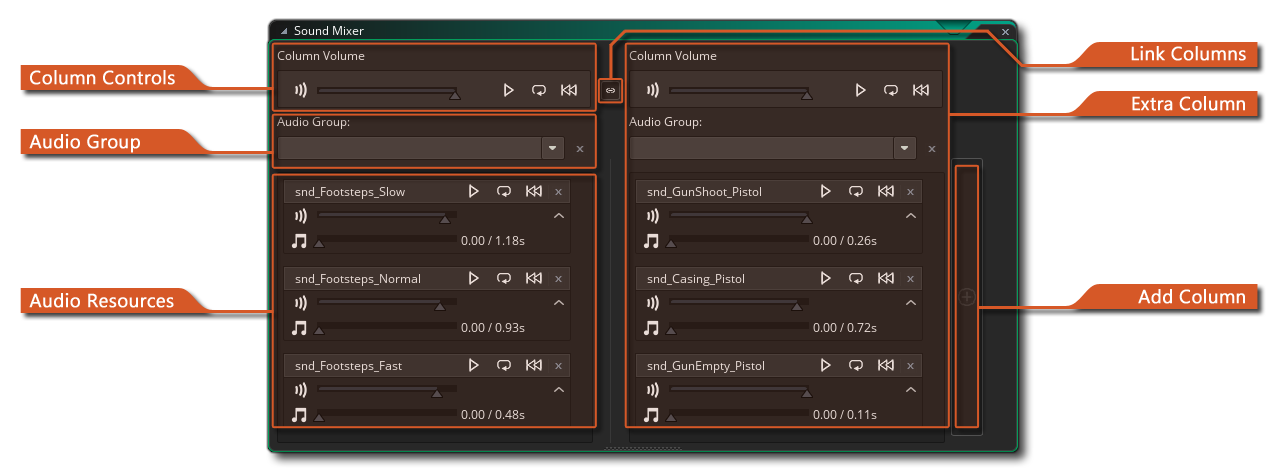
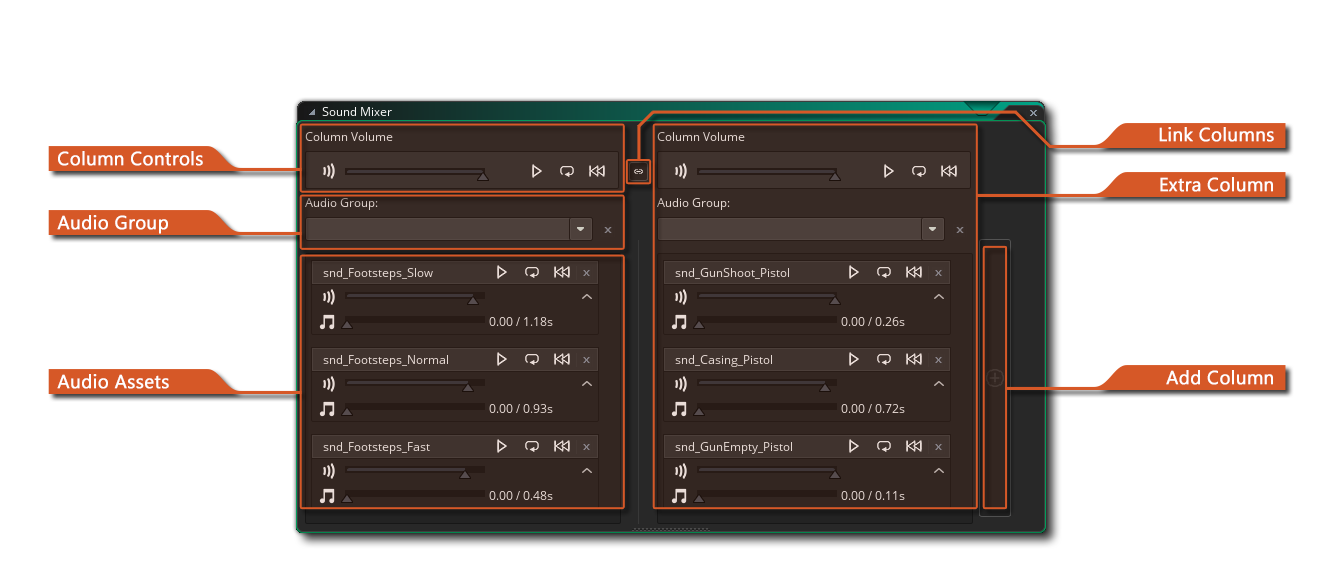
docs(general): Sound Mixer: Setting a column volume does not work as expected YoYoGames/GameMaker-Bugs#1481
* Added that the column volume slider sets overall column volume
* Added a sentence on volume sliders updating in real time
* Updated screenshot, replacing "Audio Resources" -> "Audio Assets"

diff --git a/Manual/contents/IDE_Tools/Sound_Mixer.htm b/Manual/contents/IDE_Tools/Sound_Mixer.htm
@@ -4,7 +4,7 @@
 <head>
   <meta http-equiv="Content-Type" content="text/html; charset=utf-8" />
   <title>Sound Mixer</title>
-  <meta name="generator" content="Adobe RoboHelp 2020" />
+  <meta name="generator" content="Adobe RoboHelp 2022" />
   <link rel="stylesheet" href="../assets/css/default.css" type="text/css" />
   <script src="../assets/scripts/main_script.js" type="module"></script>
   <meta name="rh-authors" content="Mark Alexander" />
@@ -15,27 +15,26 @@
 <body>
   <!--<div class="body-scroll" style="top: 150px;">-->
   <h1><span data-field="title" data-format="default">Sound Mixer</span></h1>
-  <p><img alt="The Sound Mixer" class="center" src="../assets/Images/IDE Tools/Audio_Mixer.png" />While creating any project it can be useful to check and set volumes of groups of sounds together, so that you can be sure that in-game they all sound correct. This can be tricky when you have to open each individual sound editor within the workspace, and so <span data-keyref="GameMaker Name">GameMaker</span> permits you to open a<strong> Sound Mixer</strong> window where you can play multiple sounds all from the same place and tweak their volume levels accordingly. This window can be opened from the <a href="../The_Asset_Editors/Sounds.htm">Sound Editor</a> (which will add that selected sound to the mixer view) or from the <a href="../IDE_Navigation/Menus/The_Tools_Menu.htm">Tools Menu</a>.</p>
-  <p>To add sounds to the mixer, you can use <img alt="Control Icon" class="icon" height="20" src="../assets/Images/Icons/Icon_Ctrl.png" width="55" /> / <img alt="CMD Icon" class="icon" height="20" src="../assets/Images/Icons/Icon_Cmd.png" width="55" /> +<img alt="LMB Icon" class="icon" height="22" src="../assets/Images/Icons/Icon_LMB.png" width="20" /> to select sounds in the <a href="../Introduction/The_Asset_Browser.htm">Asset Browser</a> and then open the right click <img alt="RMB Icon" class="icon" height="24" src="../assets/Images/Icons/Icon_RMB.png" width="21" /> menu and select <strong>Open In Sound Mixer</strong>. Alternatively, you can click <img alt="LMB Icon" class="icon" height="22" src="../assets/Images/Icons/Icon_LMB.png" width="20" /> on a sound asset and drag it into the mixer.</p>
+  <p><img alt="The Sound Mixer" class="center" src="../assets/Images/IDE Tools/Audio_Mixer.png" />While creating any project it can be useful to check and set volumes of groups of sounds together, so that you can be sure that in-game they all sound correct. This can be tricky when you have to open each individual sound editor within the workspace, and so <span data-keyref="GameMaker Name">GameMaker</span> permits you to open a<b> <span data-field="title" data-format="default">Sound Mixer</span> </b>window where you can play multiple sounds all from the same place and tweak their volume levels accordingly. This window can be opened from <a data-xref="{title}" href="../The_Asset_Editors/Sounds.htm">The Sound Editor</a> (which will add that selected sound to the mixer view) or from <a data-xref="{title}" href="../IDE_Navigation/Menus/The_Tools_Menu.htm">The Tools Menu</a>.</p>
+  <p>To add sounds to the mixer, you can use <img alt="Control Icon" class="icon" height="20" src="../assets/Images/Icons/Icon_Ctrl.png" width="55" /> / <img alt="CMD Icon" class="icon" height="20" src="../assets/Images/Icons/Icon_Cmd.png" width="55" /> +<img alt="LMB Icon" class="icon" height="22" src="../assets/Images/Icons/Icon_LMB.png" width="20" /> to select sounds in <a data-xref="{title}" href="../Introduction/The_Asset_Browser.htm">The Asset Browser</a> and then open the right-click <img alt="RMB Icon" class="icon" height="24" src="../assets/Images/Icons/Icon_RMB.png" width="21" /> menu and select <strong>Open In Sound Mixer</strong>. Alternatively, you can click <img alt="LMB Icon" class="icon" height="22" src="../assets/Images/Icons/Icon_LMB.png" width="20" /> on a sound asset and drag it into the mixer.</p>
   <p>The mixer itself is split into the following sections:</p>
   <ul class="Disc">
     <li><strong>Column Controls</strong>: This section contains the controls for the column of sounds. You can choose to play back all sounds in the column, as well as set them to loop or rewind to the start. You can also set the volume that they should be played back at, and changing this value will change it for all sounds in the group in real time.</li>
-    <li><strong>Audio Group</strong>: If you have assigned sound resources to different <a href="../Settings/Audio_Groups.htm">Audio Groups</a> then you can select the group from this drop-down menu and all the sounds will be added to the current sound mixer column.</li>
-    <li><strong>Sound Assets</strong>: This part of the column view shows each of the sounds that have been added to the mixer. You can set the overall volume for all sounds for the column at the top of the mixer, then use the individual sound volume controllers to change it as required, and you can also playback and loop individual sounds. To remove a sound from the column view, simply click the close button <img alt="Mixer Close SOund Icon" src="../assets/Images/Icons/Mixer_CloseColumn.png" /> for the sound, and you can also expand/collapse the individual sound playback and volume controls to make the view more compact.</li>
+    <li><strong>Audio Group</strong>: If you have assigned sound assets to different <a data-xref="{title}" href="../Settings/Audio_Groups.htm">Audio Groups</a> then you can select the group from this drop-down menu and all the sounds will be added to the current sound mixer column.</li>
+    <li><strong>Sound Assets</strong>: This part of the column view shows each of the sounds that have been added to the mixer. You can set the overall volume for the column at the top of the mixer, then use the individual sound volume controllers to change it as required, and you can also play back and loop individual sounds. Note that moving volume sliders updates the volume at which sounds are heard in real time. To remove a sound from the column view, simply click the close button <img alt="Mixer Close SOund Icon" src="../assets/Images/Icons/Mixer_CloseColumn.png" /> for the sound, and you can also expand/collapse the individual sound playback and volume controls to make the view more compact.</li>
     <li><strong>Link Columns</strong>: The Link Columns button <img alt="Mixer Link Columns Icon" src="../assets/Images/Icons/Mixer_LinkColumns.png" /> will link adjacent columns meaning that their volume and playback controls will now be linked. So, any sounds that are in either of the linked columns will have their volume affected by changes to either column control.</li>
     <li><strong>Extra Column / Add Column</strong>: You can add as many extra columns to the sound mixer as required by clicking the large button to the right of the mixer. Each extra column will be added to he right-most column and can then be linked the previous one, and you can add sounds or audio groups as you would normally. If you need to remove a column from the mixer, then you can find the <strong>Remove Sound Group</strong> button <img alt="Mixer Close SOund Icon" src="../assets/Images/Icons/Mixer_CloseColumn.png" /> found beside the Audio Group drop down menu.</li>
   </ul>
   <p> </p>
   <p> </p>
-  <p> </p>
   <div class="footer">
     <div class="buttons">
       <div class="clear">
-        <div style="float:left">Back: <a href="Additional_IDE_Tools.htm">Additional IDE Tools</a></div>
+        <div style="float:left">Back: <a data-xref="{title}" href="Additional_IDE_Tools.htm">Additional IDE Tools</a></div>
         <div style="float:right">Next: <a data-xref="{title}" href="Source_Control.htm">Source Control</a></div>
       </div>
     </div>
-    <h5><span data-keyref="Copyright Notice">© Copyright YoYo Games Ltd. 2022 All Rights Reserved</span></h5>
+    <h5><span data-keyref="Copyright Notice">© Copyright YoYo Games Ltd. 2024 All Rights Reserved</span></h5>
   </div>
   <!-- KEYWORDS
 Sound Mixer
